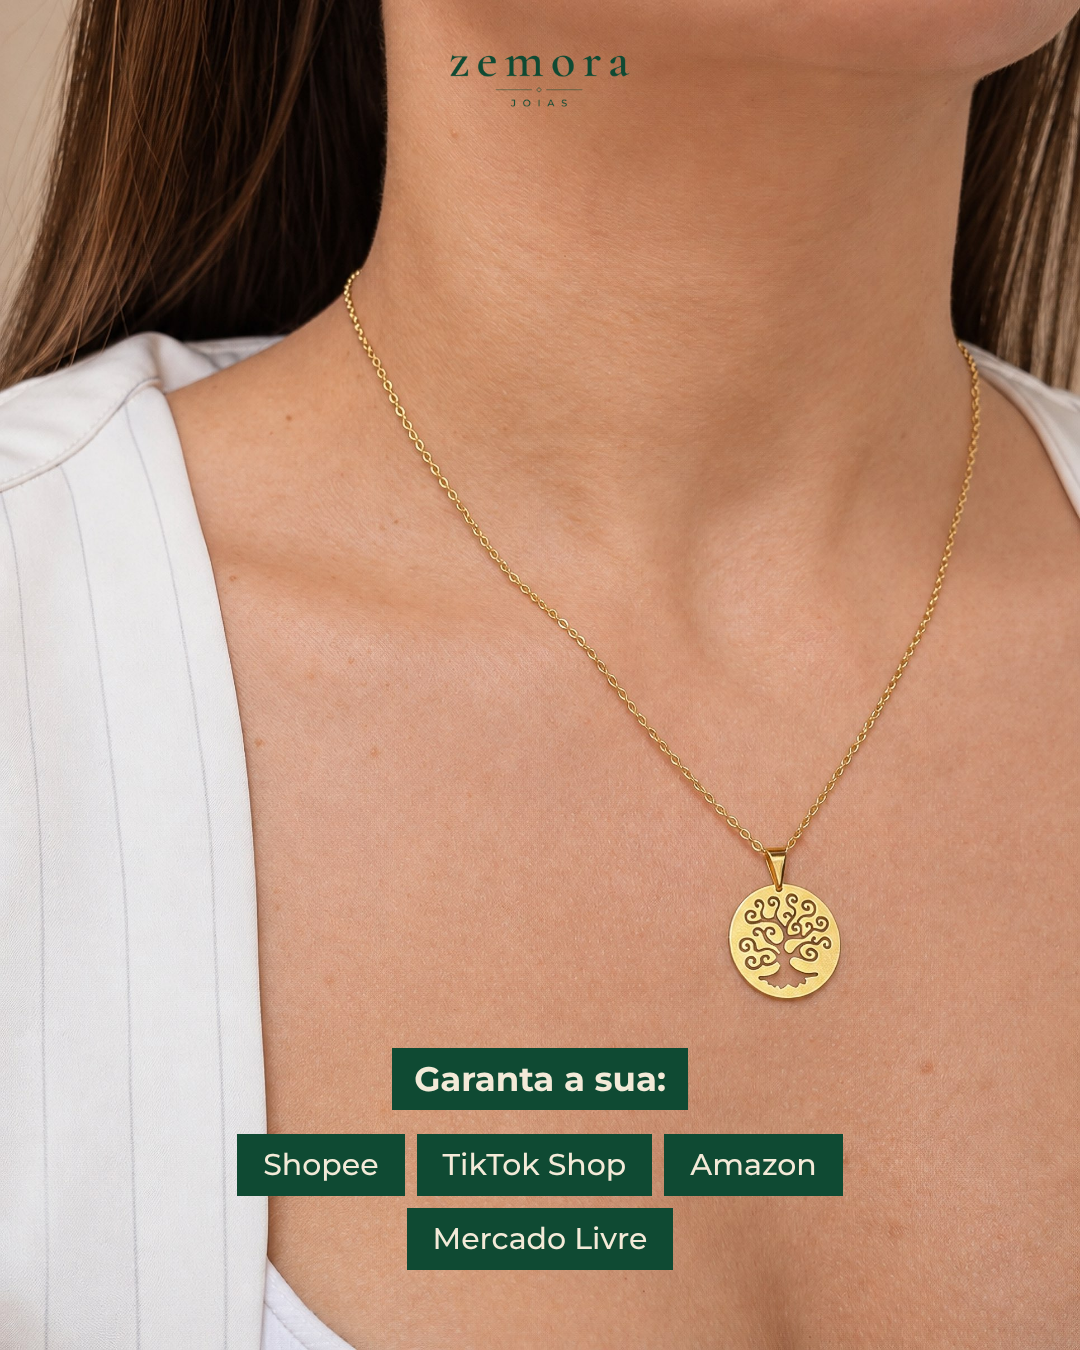
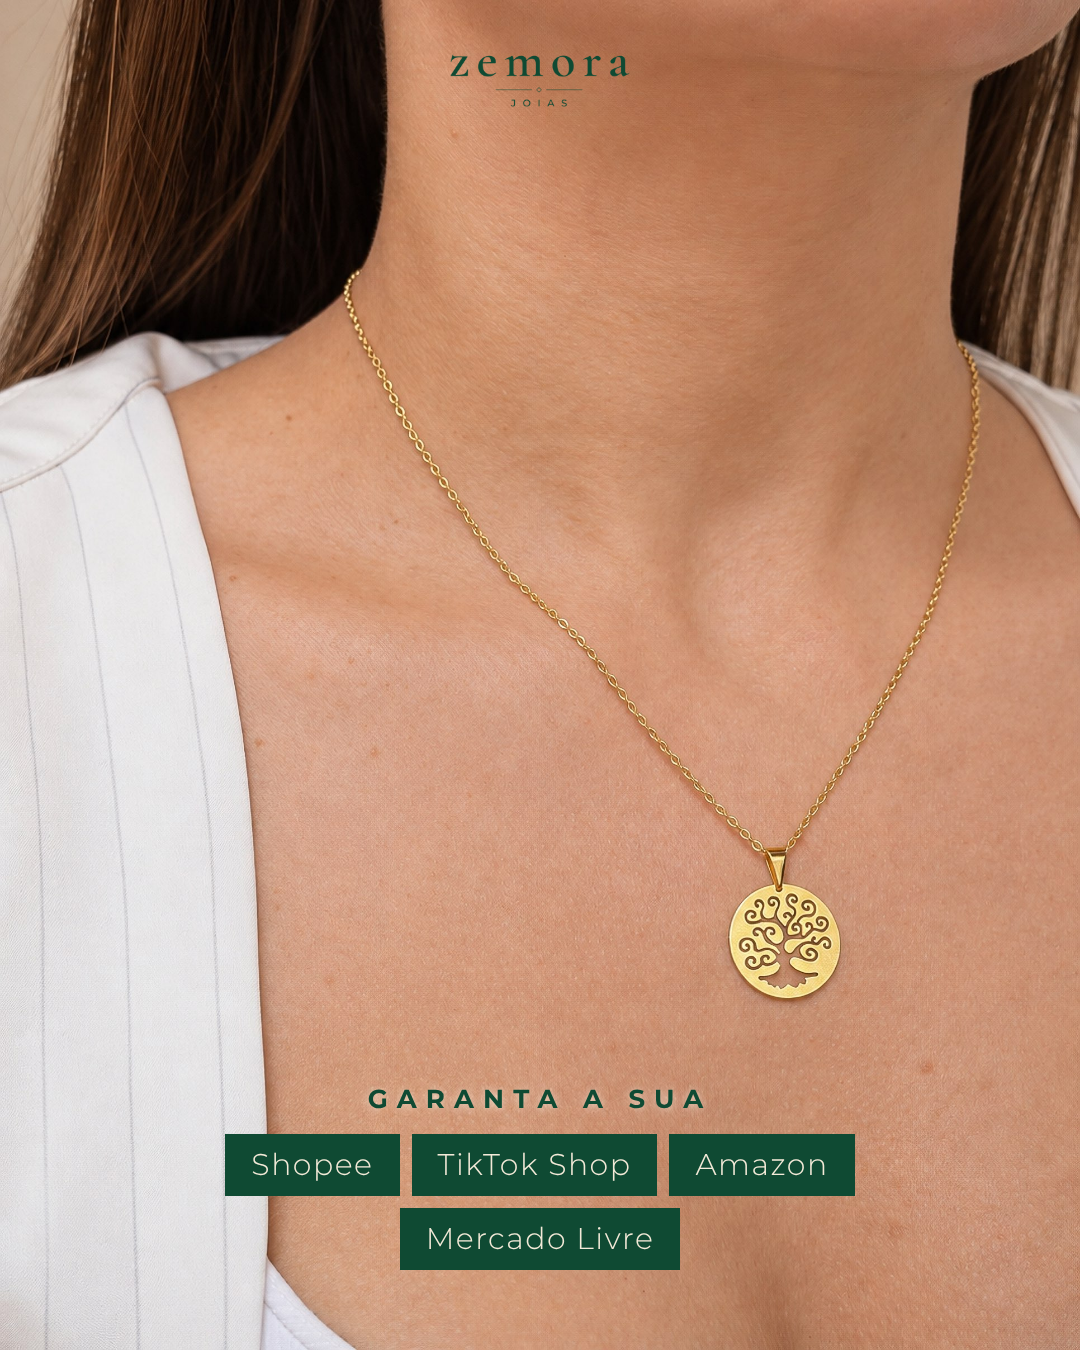
Carrossel BF ofertas: frase na capa e fontes mais finas
Claude-Session: https://claude.ai/code/session_01Ds4o6DPNY229NefAqtX4RB

Changed region(s): [[0.1833, 0.7778, 0.7944, 0.9333]]

diff --git a/cards/render-carrossel.js b/cards/render-carrossel.js
@@ -15,11 +15,11 @@ const sets={dp:[
  {n:5,logo:'logo-zemora-verde.png',foto:'ac-tornozeleira.jpg',pos:'50% 50%',v:'bottom:70px',ts:0,body:`<span class="hl" style="font:600 34px/1 Montserrat;letter-spacing:.2em;padding:26px 44px 26px 50px">ACESSE O LINK DA BIO</span>`},
 ],
  bf6:[
- {n:1,logo:'logo-zemora-verde.png',foto:'bf6-pescoco.jpg',pos:'50% 35%',v:'top:180px',ts:112,body:`<h1 class="dark">Black Friday<br>Zemora</h1><div class="sub"><span>de 23 a 28/11</span></div>`},
- {n:2,logo:'logo-zemora-verde.png',foto:'bf6-coracao.jpg',pos:'50% 50%',v:'top:180px',ts:96,body:`<h1 class="dark">Joias com<br>até 30% off</h1>`},
+ {n:1,logo:'logo-zemora-verde.png',foto:'bf6-pescoco.jpg',pos:'50% 35%',v:'top:175px',ts:104,body:`<div class="kick-thin">BLACK FRIDAY ZEMORA</div><h1 class="dark thin">Joias com<br>até <b>30% off</b></h1><div class="sub thin-sub"><span>de 23 a 28/11</span></div>`},
+ {n:2,logo:'logo-zemora-verde.png',foto:'bf6-coracao.jpg',pos:'50% 50%',v:'top:-999px',ts:0,body:''},
  {n:3,logo:'logo-zemora-verde.png',foto:'bf6-argolas.jpg',pos:'50% 50%',v:'top:-999px',ts:0,body:''},
  {n:4,logo:'logo-zemora-verde.png',foto:'bf6-arvore.jpg',pos:'50% 50%',img:'filter:blur(30px) brightness(1.02);transform:scale(1.15)',v:'top:-999px',ts:0,body:`<div style="position:fixed;left:0;bottom:0;width:1080px;height:1080px;background:url(bf6-arvore.jpg) center/cover;-webkit-mask-image:linear-gradient(to bottom,transparent 0,#000 160px)"></div>`},
- {n:5,logo:'logo-zemora-verde.png',foto:'bf6-arvore-pescoco.jpg',pos:'50% 100%',v:'bottom:80px',ts:0,body:`<div class="sub" style="font-weight:700;font-size:34px"><span>Garanta a sua:</span></div>`+chips('Shopee, TikTok Shop, Amazon, Mercado Livre')},
+ {n:5,logo:'logo-zemora-verde.png',foto:'bf6-arvore-pescoco.jpg',pos:'50% 100%',v:'bottom:80px',ts:0,body:`<div class="kick-thin" style="color:#0f4a33">GARANTA A SUA</div><div class="thin-chips">`+chips('Shopee, TikTok Shop, Amazon, Mercado Livre')+`</div>`},
  ]};
 const set=process.argv[3]||'dp';const prefix={dp:'zemora-dourado-prata',ac:'zemora-acessorios',bf6:'zemora-bf-ofertas'}[set];const cards=sets[set];
 (async()=>{const b=await chromium.launch();const p=await b.newPage({viewport:{width:1080,height:1350}});

diff --git a/cards/carrossel.html b/cards/carrossel.html
@@ -15,6 +15,11 @@ h1{font:800 {{TS}}px/1.02 Montserrat;letter-spacing:-2px;color:#fbf5e9;text-shad
 .sub span{background:#0f4a33;padding:10px 22px;box-decoration-break:clone;-webkit-box-decoration-break:clone}
 .emoji{font-family:'Noto Color Emoji';text-shadow:none}
 h1.dark{color:#0f4a33;text-shadow:0 1px 18px rgba(255,250,240,.55)}
+h1.thin{font-weight:300;letter-spacing:-1px;text-shadow:0 1px 16px rgba(255,250,240,.6)}
+h1.thin b{font-weight:600}
+.kick-thin{font:600 26px/1 Montserrat;letter-spacing:.35em;color:#0f4a33;text-shadow:0 1px 10px rgba(255,250,240,.7)}
+.thin-sub span{font-weight:300;letter-spacing:.08em}
+.thin-chips .hl{font-weight:300;letter-spacing:.05em}
 </style></head><body>
 <div class="photo"><img src="{{FOTO}}" style="{{IMGSTYLE}}"></div>
 <div class="content">{{BODY}}</div>
